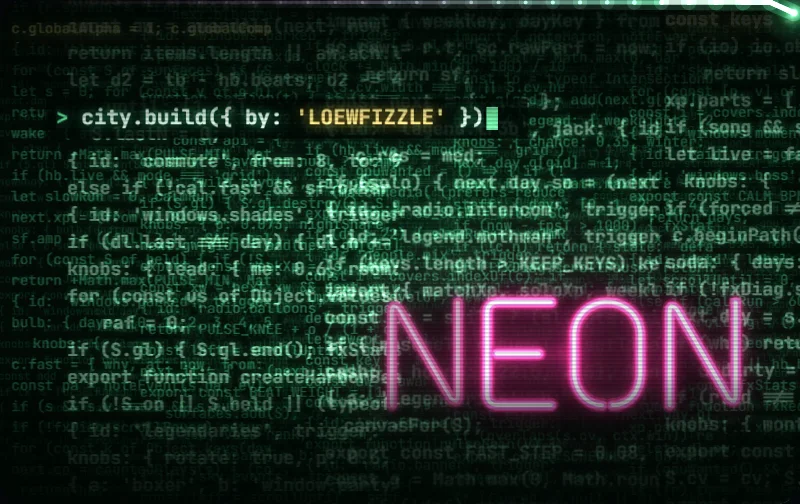
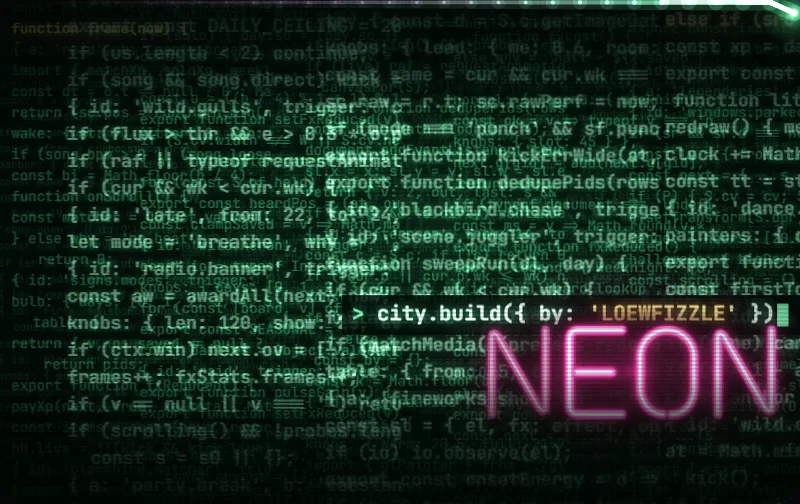
FIXES R2 group 4 — THE OWNER'S LOOK NOTES. THE SIGNS: a roof sign spells PRISM / DROP stacked (core/harbor-neon.js#SIGN_STACK — like JAY / WALK); the vertical blades keep PRISM (shots night + day at 390). THE SOURCE (final adjustment): measured — the name plate covers x <= 0.74, y 0.31-0.59 — the pr

diff --git a/api/_lib/lab-text.js b/api/_lib/lab-text.js
@@ -560,7 +560,8 @@ export const LAB_CHANGES = {
   'card-dev-switchboard': [{ v: 2, at: '2026-11-03', what: 'The pink cable lands in a TOP-row jack. The ONE OF ONE pill is gone — THE DEV GEM (prismatic, pulsing, sparkling) in the corner instead; no words on the strip (the decided rule).' }, { v: 3, at: '2026-11-05', what: 'The jacks moved a little right — THE DEV · № 0001 line’s plate reached them (THE HERO-SPOT RULE).' }, { v: 4, at: '2026-11-05', what: 'The plate’s dev line reads DEV · Nº 0001 (was THE DEV / THE DEVELOPER).' }],
   'card-dev-source': [{ v: 2, at: '2026-11-03', what: 'NEON brought down + centred in the strip. The pill → THE DEV GEM.' }, { v: 3, at: '2026-11-05', what: 'NEON a touch smaller, between your plate (THE DEV · № line) + the dev gem — it ran into both (THE HERO-SPOT RULE).' }, { v: 4, at: '2026-11-05', what: 'The plate’s dev line reads DEV · Nº 0001 (was THE DEV / THE DEVELOPER).' }],
   'full-card-dev-switchboard': [{ v: 2, at: '2026-11-03', what: '1 OF 1 · DEV in bold. The top row reads NEON SPEAKEASY · FOUNDER (its Nº dropped — it’s under your name); the badge never covers the VU meter.' }, { v: 3, at: '2026-11-04', what: 'The pill reads just 1 OF 1 (it cut off FOUNDER). The top line never clips now — its letters tighten first.' }, { v: 4, at: '2026-11-04', what: 'Your name plate now reaches past THE DEVELOPER · № 0001 (it was sized to the name and the line ran past its edge).' }, { v: 5, at: '2026-11-05', what: 'ON AIR moved up into the band under the top line, right of the level lamps — a long name’s plate ran over it. 1 OF 1 is back in the rainbow gradient (brighter colours, a dark edge, a touch bigger) with a clear gap before FOUNDER.' }, { v: 6, at: '2026-11-05', what: 'The plate’s dev line reads DEV · Nº 0001 (was THE DEV / THE DEVELOPER).' }],
-  'full-card-dev-source': [{ v: 2, at: '2026-11-03', what: '1 OF 1 · DEV in bold.' }, { v: 3, at: '2026-11-04', what: 'The pill reads just 1 OF 1. The top line never clips now — its letters tighten first.' }, { v: 4, at: '2026-11-04', what: 'Your name plate now reaches past THE DEVELOPER · № 0001 (it ran past the plate’s edge).' }, { v: 5, at: '2026-11-05', what: '1 OF 1 is back in the rainbow gradient (brighter colours, a dark edge, a touch bigger) with a clear gap before FOUNDER.' }, { v: 6, at: '2026-11-05', what: 'The plate’s dev line reads DEV · Nº 0001 (was THE DEV / THE DEVELOPER).' }],
+  'glow-candle': [{ v: 2, at: '2026-11-15', what: 'FIXES R2 — clearly visible at phone size: the letters themselves candle-gold with a steady amber halo; the flicker rides on top, never below a third.' }],
+  'full-card-dev-source': [{ v: 2, at: '2026-11-03', what: '1 OF 1 · DEV in bold.' }, { v: 3, at: '2026-11-04', what: 'The pill reads just 1 OF 1. The top line never clips now — its letters tighten first.' }, { v: 4, at: '2026-11-04', what: 'Your name plate now reaches past THE DEVELOPER · № 0001 (it ran past the plate’s edge).' }, { v: 5, at: '2026-11-05', what: '1 OF 1 is back in the rainbow gradient (brighter colours, a dark edge, a touch bigger) with a clear gap before FOUNDER.' }, { v: 6, at: '2026-11-05', what: 'The plate’s dev line reads DEV · Nº 0001 (was THE DEV / THE DEVELOPER).' }, { v: 7, at: '2026-11-15', what: 'FIXES R2 — the final adjustment: the city.build({ by: LOEWFIZZLE }) line sits centred right above NEON (it hid behind the PROPRIETOR line); NEON a size smaller in the right half, clear of the bottom rows. 1 OF 1 as it was.' }],
   'card-founder': [{ v: 2, at: '2026-11-03', what: 'NEON SPEAKEASY centred. The LEGENDARY + Nº pills are gone — a gold TIER GEM in the corner + your Nº in gold letters.' }],
   'full-card-founder': [{ v: 2, at: '2026-11-03', what: 'The card-game room is now THE SHADOWBOXER, live (the city’s own). The FOUNDER badge sits in a slot clear of anything moving.' }],
   'full-card-house': [{ v: 2, at: '2026-11-03', what: 'The card-game room is now THE SHADOWBOXER, live (no card game anywhere).' }],  // CARD FIXES (Nov 5 evening — the owner's LAB notes + THE CARD LAYOUT RULE)

diff --git a/js/screens/profile.js b/js/screens/profile.js
@@ -89,13 +89,19 @@ function dragScroll(sc) {
 
 export function createView({ onBack = null, overlay = false } = {}) {
   const els = {};
-  let data = null, destroyed = false;
+  let data = null, destroyed = false, rootEl = null, revealT = 0;
+  const REVEAL_MAX_MS = 1500;
 
   function mount(el) {
     // (HOTFIX after THE SPEED PASS — the owner's live iPhone: the YOU page was UNSTYLED for a non-Gilded card — css/progress.css + vault.css
     //  loaded only through memberCard(), which paintHero skips for a full card. The page loads its sheets itself, before anything paints)
     pgSheet();
-    el.classList.add('pf-screen');
+    rootEl = el;
+    el.classList.add('pf-screen', 'pf-wait');
+    // (FIXES R2 — THE YOU SCREEN LOADED MESSY: the card came up, then the blocks under it popped in + pushed it all around. Now the page is
+    //  laid out unseen and REVEALS ONCE, in a single fade (opacity only), when the server's answer has painted every block — or after
+    //  REVEAL_MAX_MS whatever came (a slow / closed office). css/progress.css .pf-wait)
+    revealT = setTimeout(() => reveal('the safety'), REVEAL_MAX_MS);
     // (CITY A — the add-on, Nov 14 7:56 pm: EVERY .btn on the profile screen (the YOU page + the room's overlay) acts on its own press + lift —
     //  ui/tapwatch.js#PRESS_IMPLICIT; the copy / share buttons keep Safari's own click: data-act copy / share)
     el.dataset.pressAll = '';
@@ -275,6 +281,12 @@ export function createView({ onBack = null, overlay = false } = {}) {
     } finally { if (btn) btn.classList.remove('is-busy'); }
   }
 
+  function reveal(why) {
+    clearTimeout(revealT); revealT = 0;
+    if (destroyed || !rootEl || !rootEl.classList.contains('pf-wait')) return;
+    // (two frames: whatever the paint just appended is laid out before the fade starts)
+    requestAnimationFrame(() => requestAnimationFrame(() => { if (destroyed || !rootEl) return; rootEl.classList.remove('pf-wait'); rootEl.dataset.revealed = why; }));
+  }
   async function load() {
     try {
       data = await fetchMe();
@@ -291,9 +303,11 @@ export function createView({ onBack = null, overlay = false } = {}) {
       els.foot.replaceChildren(
         h('span', `MEMBER SINCE ${since(data)}`),
         h('button.pf-pid', { type: 'button', title: 'Your profile id (for the admin page)', onclick: () => { navigator.clipboard && navigator.clipboard.writeText(data.pid).then(() => toast('PROFILE ID COPIED', 'ok')).catch(() => {}); } }, `ID ${data.pid}`));
+      afterTap(() => reveal('painted'));   // (the card's own paint waits for a lifted finger too — THE TAP WATCH)
     } catch (e) {
       if (destroyed) return;
       if (els.card.querySelector('.pf-card-blank') && !fullMounted && paintN === 0) paintHero(null, 0, null, null);   // (the office closed: the card we have)
+      reveal('the office closed');
       els.prog.replaceChildren(h('div.pf-loading.is-off', e.status === 404 ? 'Finish a match and your membership is made — automatically, no signup.' : 'The membership office is closed right now — your games still count and land here when it opens.'));
     }
   }
@@ -430,6 +444,6 @@ export function createView({ onBack = null, overlay = false } = {}) {
   return {
     mount,
     update() {},
-    unmount() { destroyed = true; if (fullMounted) { fullMounted.destroy(); fullMounted = null; } document.body.classList.remove('pf-on'); closeAllPfSheets(); },
+    unmount() { destroyed = true; clearTimeout(revealT); if (fullMounted) { fullMounted.destroy(); fullMounted = null; } document.body.classList.remove('pf-on'); closeAllPfSheets(); },
   };
 }

diff --git a/tests/integration/plate-preview.html b/tests/integration/plate-preview.html
@@ -24,15 +24,16 @@ registerLabText(LAB_TEXT);   // (CARD FIXES: the cards' printed names, as the la
 import { fullCardEl, mountFullCard } from '/js/vault/full.js';
 import { stripEl, LOOKS, mountStrips } from '/js/vault/strip.js';
 const q = new URLSearchParams(location.search);
+const glow = q.get('glow') || null;   // (FIXES R2: &glow=glow-candle — a glow on every name, the before / after look)
 const name = q.get('name') || 'WWWWWWWWWWWW', lv = Number(q.get('lv') || 100), only = q.get('only') || '', fd = q.get('fd') !== '0';   // (CARD FIXES: &fd=0 = a non-founder)
 const cards = q.get('cards') ? q.get('cards').split(',') : Object.keys(LOOKS);
 await document.fonts.ready;
 const stage = document.getElementById('stage');
 for (const card of cards) {
   if (only !== 'strip' && q.has('fx')) { const host = Object.assign(document.createElement('div'), { style: 'position:relative' }); stage.append(Object.assign(document.createElement('div'), { className: 'lbl', textContent: `${card} · full` }), host); mountFullCard(host, card, { name, lv, no: '0001', avatar: 'crown', color: 'magenta', at: Date.UTC(2026, 9, 2), fd }); }
-  else if (only !== 'strip') stage.append(Object.assign(document.createElement('div'), { className: 'lbl', textContent: `${card} · full` }), fullCardEl({ card, who: { name, lv, no: '0001', avatar: 'crown', color: 'magenta', at: Date.UTC(2026, 9, 2), fd } }));
+  else if (only !== 'strip') stage.append(Object.assign(document.createElement('div'), { className: 'lbl', textContent: `${card} · full` }), fullCardEl({ card, who: { name, lv, glow, no: '0001', avatar: 'crown', color: 'magenta', at: Date.UTC(2026, 9, 2), fd } }));
   if (only !== 'full' && q.has('fx')) { const list = document.createElement('div'); stage.append(Object.assign(document.createElement('div'), { className: 'lbl', textContent: card }), list); mountStrips(list, [{ card, name: q.get('name') || 'MIKE', lv, no: '0001', avatar: 'crown', color: 'magenta' }]); continue; }
-  if (only !== 'full') { const list = Object.assign(document.createElement('div'), { className: 'vl-list' }); list.append(stripEl({ card, name, lv, host: q.has('host'), no: '0001', avatar: 'crown', color: 'magenta' })); stage.append(list); }
+  if (only !== 'full') { const list = Object.assign(document.createElement('div'), { className: 'vl-list' }); list.append(stripEl({ card, name, lv, glow, host: q.has('host'), no: '0001', avatar: 'crown', color: 'magenta' })); stage.append(list); }
 }
 window.__ready = true; document.body.dataset.ready = "1";   // (THE BTC CARD: shots.mjs --page waits for body.dataset.ready)
 </script>

diff --git a/css/vault.css b/css/vault.css
@@ -812,9 +812,11 @@ body.reduced-fx .vg > i, .vl-still .vg > i, .vg.vg-still > i { animation: none !
 /* CANDLELIGHT (uncommon): warm amber, a candle's flicker in it — CITY C: the FLICKER lives in the warm HALO. The letters keep a faint halo of
    their own (always ≥ 4.5 : 1 — the copy is the same light colour); the COPY carries a strong amber glow and only its opacity moves (the
    compositor): a long steady burn, two quick gutters, a flare — an uneven candle, never a strobe (no step under ~120 ms) */
-.vg-candle { color: #fff1d8 !important; text-shadow: 0 0 3px rgba(255, 176, 76, 0.55), 0 1px 2px rgba(0, 0, 0, 0.8) !important; }
+/* (FIXES R2 — the owner couldn't tell it was on at his phone size: the LETTERS themselves are candle-gold now with their own steady amber halo —
+   it reads as CANDLELIGHT unzoomed and in every still; the flickering copy rides on top, brighter, never below 0.35) */
+.vg-candle { color: #ffd38c !important; text-shadow: 0 0 2px rgba(255, 214, 140, 0.95), 0 0 7px rgba(255, 160, 60, 0.9), 0 0 16px rgba(255, 118, 30, 0.6), 0 1px 2px rgba(0, 0, 0, 0.8) !important; }
 .vg-candle::after { color: #fff4df; text-shadow: 0 0 5px rgba(255, 206, 110, 1), 0 0 13px rgba(255, 160, 50, 0.95), 0 0 26px rgba(255, 120, 30, 0.8), 0 0 40px rgba(255, 96, 20, 0.5); animation: vg-flame 4.6s ease-in-out infinite; }
-@keyframes vg-flame { 0% { opacity: 0.5; } 18% { opacity: 0.62; } 34% { opacity: 0.48; } 46% { opacity: 0.58; } 50% { opacity: 0.06; } 53.5% { opacity: 0.55; } 57% { opacity: 0.04; } 61% { opacity: 0.6; } 70% { opacity: 1; } 76% { opacity: 0.82; } 88% { opacity: 0.56; } 100% { opacity: 0.5; } }
+@keyframes vg-flame { 0% { opacity: 0.7; } 18% { opacity: 0.82; } 34% { opacity: 0.66; } 46% { opacity: 0.78; } 50% { opacity: 0.35; } 53.5% { opacity: 0.75; } 57% { opacity: 0.38; } 61% { opacity: 0.8; } 70% { opacity: 1; } 76% { opacity: 0.92; } 88% { opacity: 0.74; } 100% { opacity: 0.7; } }
 /* FROST (uncommon): icy white letters; frost crystals CREEPING onto their top edge, one after another */
 .vg-frost { color: #f2fbff !important; text-shadow: 0 0 4px rgba(170, 230, 255, 0.95), 0 0 10px rgba(90, 180, 255, 0.5), 0 1px 2px rgba(0, 0, 0, 0.75) !important; }
 .vg-xtal { width: 0.56em; height: 0.56em; margin-left: -0.28em;   /* (CITY C: bigger — they read at 390) */ transform-origin: 50% 100%; top: -0.36em;

diff --git a/js/vault/catalog.js b/js/vault/catalog.js
@@ -292,6 +292,7 @@ export function registerLabText(t) { for (const x of LAB) if (t && t[x.id]) Obje
 export const LAB_V = Object.freeze({
   // (CITY C — THE SIGHTING CARDS IN THE STANDARD LAYOUT: every sighting's full card laid out like the others, its hero moved right of the plate)
   'full-card-sg-ufo': 2, 'full-card-sg-tr3b': 2, 'full-card-sg-f22': 2, 'full-card-sg-ghostship': 2, 'full-card-sg-skull': 2, 'full-card-sg-blackbird': 2, 'full-card-sg-fireball': 2, 'full-card-sg-aurora': 2,
+  'glow-candle': 2,   // (FIXES R2: the letters candle-gold with a steady amber halo — the owner couldn't tell it was on)
   'card-inferno': 2, 'full-card-inferno': 2, 'card-century': 4, 'full-card-century': 3,
   'card-prism': 2, 'card-emerald': 2, 'card-sg-ufo': 2, 'card-marquee': 2,
   'card-camo': 2, 'card-sg-tr3b': 2,   // (SHELL 2.0 B2 — THE HERO-SPOT AUDIT + the 1 OF 1's gradient)
@@ -306,7 +307,7 @@ export const LAB_V = Object.freeze({
   // (BOARD 2.0 B — THE LONG-NAME FIX: these full cards' art set right + its edges faded, so a 12-letter name stays on ONE line; the dial smaller + flush right)
   'full-card-safecracker': 2, 'full-card-ghost-run': 2, 'full-card-perfect-week': 2,   // (DM2 — PENTHOUSE's new face: design A · THE DIAL, drawn in code)   // (Nov 6: the tape card's strip v4 — its effects back on their spots)
   'card-sg-btc': 2, 'full-card-sg-btc': 3,   // (THE BTC CARD — new premium art (Grok's ₿ balloon over the harbor) + THE BURNER FLARE; BOARD 2.0 A: the full card's name on one line, the sighting line back, the rise-in fixed)
-  'card-dev-switchboard': 4, 'card-dev-source': 4, 'full-card-dev-switchboard': 6, 'full-card-dev-source': 6,
+  'card-dev-switchboard': 4, 'card-dev-source': 4, 'full-card-dev-switchboard': 6, 'full-card-dev-source': 7,
   // (CITY E — THE LAB FEEDS EVERY PASS: the owner's two open FIX marks built — the Mostar flag card (the chequered flag → Mostar's old bridge, renamed) + the horseshoe as a U)
   'full-card-gift-zadomovinu': 2, 'card-gift-zadomovinu': 2, 'emb-horseshoe': 2,
 });

diff --git a/js/fx/dev-source.js b/js/fx/dev-source.js
@@ -80,7 +80,15 @@ const signOf = (wpx) => { let s = signMemo.get(wpx); if (!s) { s = signLayout([{
 const boxOf = L => { let x0 = Infinity, y0 = Infinity, x1 = -Infinity, y1 = -Infinity; for (const p of L.polys) for (const [x, y] of p.pts) { x0 = Math.min(x0, x); y0 = Math.min(y0, y); x1 = Math.max(x1, x); y1 = Math.max(y1, y); } return [(x0 + x1) / 2, (y0 + y1) / 2, (x1 - x0) / 2, (y1 - y0) / 2]; };
 
 function layoutOf(w, h, full) {
-  if (full) return { full, sign: [w * 0.49, h * 0.6, w * 0.43], cmd: [w * 0.07, h * 0.235, 10.5], fs: [5.4, 7, 9], cols: [9, 5, 3], dim: 0.62 };
+  // (FIXES R2 — the owner's final adjustment: the prompt hid behind the PROPRIETOR line. Measured on the full card (358 × 226 at 390): the
+  //  name plate covers x ≤ 0.74, y 0.31–0.59; OCT 2026 ends at x 0.61 from y 0.78; THE SOURCE starts at y 0.86. So the prompt sits CENTRED
+  //  over the NEON sign in the band right under the plate (y ≈ 0.625, ≤ 10.5 px — ~9 at a phone's card, on its own dark strip), and NEON just
+  //  below it in the card's right half (x 0.615–0.965, y 0.655–0.82) — higher than the bottom rows, its feet never cut. cmd = [left x, mid y, px])
+  if (full) {
+    const sw = w * 0.35, sx = w * 0.615, sy = h * 0.655, fs = Math.min(10.5, (w * 0.56) / (0.6 * (CMD.length + 2))), pw = 0.6 * fs * (CMD.length + 2);
+    const px = Math.max(w * 0.44, Math.min(w * 0.975 - pw, sx + sw / 2 - pw / 2));
+    return { full, sign: [sx, sy, sw], cmd: [px, h * 0.625, fs], fs: [5.4, 7, 9], cols: [9, 5, 3], dim: 0.62 };
+  }
   // (2C — the owner's FIX: NEON brought down + centred in the strip's art, right of the plate — the tier gem left the corner free)
   return { full, sign: [w * 0.705 - w * 0.125,   /* (B2 — THE HERO-SPOT RULE: NEON middle-right, clear of the dev gem) */ (h - w * 0.25 * 100 / 332) / 2, w * 0.25], cmd: null, fs: [4, 5.2, 6.6], cols: [12, 7, 3] };
 }

diff --git a/js/core/harbor-neon.js b/js/core/harbor-neon.js
@@ -933,6 +933,9 @@ export function signRoster(games, { jaywalk = true } = {}) {
 /** the owner's call (Nov 15): these names are ALWAYS two stacked words on every neon sign — never one line — where the spot takes two (a roof
  *  sign) or allows a split (`split` — the vertical blades) */
 export const SIGN_SPLIT = Object.freeze({ jaywalk: ['JAY', 'WALK'], overclock: ['OVER', 'CLOCK'] });
+/** FIXES R2 (the owner, Nov 15): a ROOF sign (a 'box' spot taking two words) spells PRISM's FULL name, stacked — PRISM / DROP, like JAY / WALK;
+ *  a vertical blade (the hotel's, the speakeasy's) keeps the one word PRISM */
+export const SIGN_STACK = Object.freeze({ prism: ['PRISM', 'DROP'] });
 /**
  * CITY B: the text a spot spells for a game (its words joined by ' ') — null when it fits nowhere there. A vertical blade (a 'vbox') drops the
  * apostrophe (it can't stand in a column: HOLD'EM → HOLDEM); a name whose single word is too long stacks as its SIGN_SPLIT words where the
@@ -946,6 +949,8 @@ export function signText(g, sp) {
     if (sp.type === 'vbox' && sw.join('').length > (sp.cap || 99) + 1) return null;
     return fitsSpot(sw.join(' '), { ...sp, words: Math.max(sp.words || 1, sp.split || 1) }) ? sw.join(' ') : null;
   }
+  const st = SIGN_STACK[g.id];
+  if (st && sp.type === 'box' && (sp.words || 1) >= 2 && fitsSpot(st.join(' '), sp)) return st.join(' ');
   let t = String(g.short || g.name || '').trim();
   if (sp.type === 'vbox') t = t.replace(/['’]/g, '');
   return fitsSpot(t, sp) ? t : null;

diff --git a/js/admin/stats-view.js b/js/admin/stats-view.js
@@ -121,7 +121,7 @@ function timesBlock(S) {
 
 /** the blocks both places show */
 export function statsBlocks(S, o = {}) {
-  const O = { view: o.view || { games: '30', players: 'all' }, rerender: o.rerender || (() => {}), onPlayer: o.onPlayer || null };
+  const O = { view: o.view || { games: 'today', players: 'today' }, rerender: o.rerender || (() => {}), onPlayer: o.onPlayer || null };
   return [gamesBlock(S, O), playersBlock(S, O), dailyBlock(S), growthBlock(S), timesBlock(S)];
 }
 
@@ -185,7 +185,7 @@ function playersLine(S, X) {
 export function openStatsSheet({ api, openSheet }) {
   const css = document.querySelector('link[data-ad]') ? null : Object.assign(document.createElement('link'), { rel: 'stylesheet', href: '/css/admin.css' });
   if (css) { css.dataset.ad = '1'; document.head.append(css); }
-  const view = { games: '30', players: 'all' };
+  const view = { games: 'today', players: 'today' };   // (FIXES R2 — the owner: every tab group in the STATS sheet opens on TODAY)
   const body = h('div.st-body', h('p.ad-dim', 'Reading the numbers…'));
   const stamp = h('small.st-stamp');
   let X = null, busy = false;

diff --git a/js/vault/full.js b/js/vault/full.js
@@ -49,7 +49,7 @@ const timeOf = at => { try { return new Date(at).toLocaleTimeString('en-US', { h
 // (FOUNDING MEMBER's own gold stamp is its badge). tests/integration/harbor-e2e/vault.mjs proves no overlap at 390 / 402 / 430.
 export const BADGE = Object.freeze({
   'card-dev-switchboard': { slot: 'top', moving: [[0.065, 0.185, 0.15, 0.115], [0.24, 0.215, 0.33, 0.06], [0.66, 0.205, 0.25, 0.095], [0.05, 0.39, 0.9, 0.52]] },
-  'card-dev-source': { slot: 'top', moving: [[0.49, 0.6, 0.43, 0.21], [0.07, 0.2, 0.62, 0.075]] },
+  'card-dev-source': { slot: 'top', moving: [[0.615, 0.655, 0.35, 0.17], [0.44, 0.59, 0.54, 0.07]] },   // (FIXES R2: the prompt over NEON, NEON in the right half)
   'card-founder': { slot: 'stamp', moving: [[0.362, 0.205, 0.276, 0.2], [0.41, 0.6, 0.14, 0.22]] },
   'card-house': { slot: 'pill', moving: [[0.47, 0.14, 0.47, 0.75]] },
   'card-sg-ufo': { slot: 'pill', moving: [[0.3, 0.16, 0.4, 0.4]] },

diff --git a/css/board.css b/css/board.css
@@ -472,3 +472,7 @@ html body .music-btn.bd-music { top: calc(var(--safe-t) + 12px) !important; righ
 .pk-or { display: flex; align-items: center; gap: 10px; margin: 6px 0 0; font: 800 10px/1 var(--font-display); letter-spacing: 0.22em; color: rgba(226, 232, 255, 0.66); }
 .pk-or::before, .pk-or::after { content: ''; flex: 1; height: 1px; background: rgba(255, 255, 255, 0.16); }
 .pf-kb-none { gap: 8px; }
+/* FIXES R2 — THE YOU SCREEN REVEALS ONCE (js/screens/profile.js#reveal): laid out unseen until its blocks are painted, then ONE fade — opacity only */
+.pf-screen .pf-scroll { transition: opacity 0.28s ease-out; }
+.pf-screen.pf-wait .pf-scroll { opacity: 0; }
+@media (prefers-reduced-motion: reduce) { .pf-screen .pf-scroll { transition: none; } }

diff --git a/docs/vault.md b/docs/vault.md
@@ -828,3 +828,12 @@ is below, VERBATIM (as of `48e3e157`). New detail goes in the sections above, no
   --case customize` — EVERY tab (CARD · EMBLEM · GLOW · TUBE) scrolled end to end ×3 at 390 @3, 4× CPU: 0 tile animations, GPU contexts / canvas
   pixels / memory flat, no reload. Shots: Downloads/NEON/fixes-r1/customize-*.png.
 - The owner's slim card reads **LV n** like everyone's (was DEV); ✦ PROPRIETOR ✦ lives on the full card only; the dev gem stays.
+
+### FIXES R2 — THE SOURCE (final adjustment) + CANDLELIGHT
+- **THE SOURCE** (`fx/dev-source.js#layoutOf`, full card): measured at 390 the name plate covers x ≤ 0.74, y 0.31–0.59 — the prompt
+  `> city.build({ by: 'LOEWFIZZLE' })` hid behind it. Now CENTRED over NEON in the band right under the plate (≤ 10.5 px, ~9 at a phone's card,
+  on its own dark strip) and NEON just below it in the card's right half (x 0.615–0.965, y 0.655–0.82), clear of OCT 2026 + THE SOURCE label —
+  its feet never cut. The 1 OF 1 tag as it was; the slim strip unchanged. `LAB_V` 7 + its LAB_CHANGES line; the stills rebuilt.
+- **CANDLELIGHT** (`glow-candle`, css/vault.css `.vg-candle`): the owner couldn't tell it was on at his phone size — the LETTERS are candle-gold
+  (#ffd38c) with their own steady amber halo (static: it reads in every still), the flickering copy on top brighter, never below 0.35. `LAB_V` 2.
+  Before / after: `Downloads\NEON\fixes-r2\candle-before|after\`. `plate-preview.html` takes `&glow=<id>`.

diff --git a/docs/harbor.md b/docs/harbor.md
@@ -495,6 +495,10 @@ activation 2 s, the offline reads 0.8 s) — Safari's storage can stop answering
   reloaded by hand → the report, once) + `server.test` "old browsers" + `tests/boot-watchdog.test.mjs` (every inline script PARSES — a newline
   slipped into one of its strings during this pass, caught).
 
+**PRISM / DROP ON THE ROOFS (FIXES R2, the owner Nov 15):** a ROOF sign (a 'box' spot taking two words) spells PRISM's full name stacked —
+PRISM / DROP, like JAY / WALK (`core/harbor-neon.js#SIGN_STACK` in `signText`); the vertical blades (the hotel's — the owner's call — and the
+speakeasy's weekly game) keep the one word PRISM; the billboard as it was. Shots: `Downloads\NEON\fixes-r2\signs\` (night Nov 30, day Dec 2).
+
 **AWAY, LIGHT (FIXES R2, Nov 15 — the owner's iPhone: PAGE KILLED (likely memory) while away in Messages after SHARE TODAY):** while the page
 is HIDDEN the city keeps none of its big bakes — at the hide (synchronously: iOS may freeze timers right after) the last frame as seen is kept
 as ONE picture at half resolution, then both bakers (`bake.js#free` — both sets, the plan kept), the merged bands, the main canvas, the sky +
